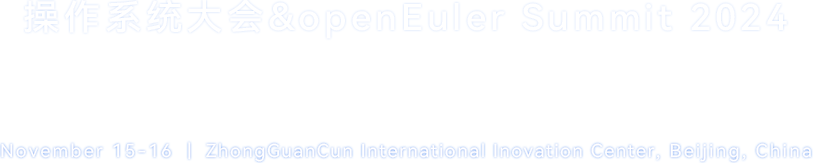
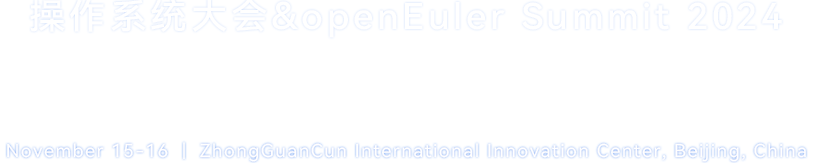
fix: 修改minisite2024页面文案和banner图

Changed region(s): [[0.0, 0.8896, 0.8918, 1.0], [0.9225, 0.8896, 1.0, 0.9816]]

diff --git a/app/.vitepress/src/views/summit/summit2024/data/data_en.ts b/app/.vitepress/src/views/summit/summit2024/data/data_en.ts
@@ -13,12 +13,13 @@ export default {
   introduce:
     'The Fourth Industrial Revolution, driven by intelligent digital technologies, is accelerating productivity across industries. As a digital infrastructure for various sectors, openEuler has been continuously innovating over the past five years, contributing to the development of a new global open source ecosystem.',
   introduce2:
-    'On November 15–16 this year, we will host the Operating System Conference & openEuler Summit 2024 at the ZGC International Innovation Center in Beijing. This event aims to bring together global industry leaders, thought leaders, business elites, technical experts, partners, and representatives from global enterprises and open source foundations. Together, we will explore the future of the operating system industry, showcase the latest collaborations, and share best practices in digital transformation, all while driving innovation to unlock next-gen productivity.',
+    'On November 15–16 this year, we will host the Operating System Conference & openEuler Summit 2024 at the ZhongGuanCun International Innovation Center in Beijing. This event aims to bring together global industry leaders, thought leaders, business elites, technical experts, partners, and representatives from global enterprises and open source foundations. Together, we will explore the future of the operating system industry, showcase the latest collaborations, and share best practices in digital transformation, all while driving innovation to unlock next-gen productivity.',
   introduce3: 'Here\'s what you can expect:',
   list: [
-    'Listen to and share cutting-edge insights through 30+ keynotes, summits, and forums.',
+    'Listen to and share cutting-edge insights through 30+ keynotes, summits, and sessions.',
     'Explore 100+ innovative booths featuring the latest openEuler solutions and joint innovations with partners.',
-    'Engage with technical experts in face-to-face discussions, gain insights on the latest development tools, and participate in hands-on sessions.',
-    'Collaborate on key initiatives for intelligent and digital transformation, contributing to the growth of a new global open source ecosystem.',
+    'Engage with technical experts in person, gain insights on the latest development tools, and participate in hands-on sessions.',
+    'Collaborate on key initiatives for intelligent and digital transformation and contribute to the growth of a new global open source ecosystem.',
   ],
+  introduce4: 'Join us as we unite the open source community, contribute to digital innovation, and work together towards digital intelligence.',
 };

diff --git a/app/.vitepress/src/views/summit/summit2024/components/SummitBanner.vue b/app/.vitepress/src/views/summit/summit2024/components/SummitBanner.vue
@@ -13,7 +13,6 @@ defineProps({
   },
 });
 
-
 const { lang } = useData();
 const screenWidth = ref(useWindowResize());
 const isMobile = computed(() => (screenWidth.value <= 768 ? true : false));
@@ -62,7 +61,6 @@ onMounted(() => {
     transform: translateX(-50%);
     padding: 0 44px;
     display: flex;
-    align-items: center;
     @media screen and (max-width: 1439px) {
       padding: 0 24px;
     }
@@ -71,7 +69,8 @@ onMounted(() => {
     width: 100%;
   }
   .text-img {
-    height: 162px;
+    height: 156px;
+    margin-top: 90px;
   }
 }
 

diff --git a/app/.vitepress/src/i18n/common/common-zh.ts b/app/.vitepress/src/i18n/common/common-zh.ts
@@ -70,7 +70,7 @@ export default {
         {
           NAME: '峰会',
           LABEL: '',
-          PATH: '/interaction/summit-list/sig-gathering-2024/',
+          PATH: '/interaction/summit-list/summit2024/',
         },
         {
           NAME: '月刊',
